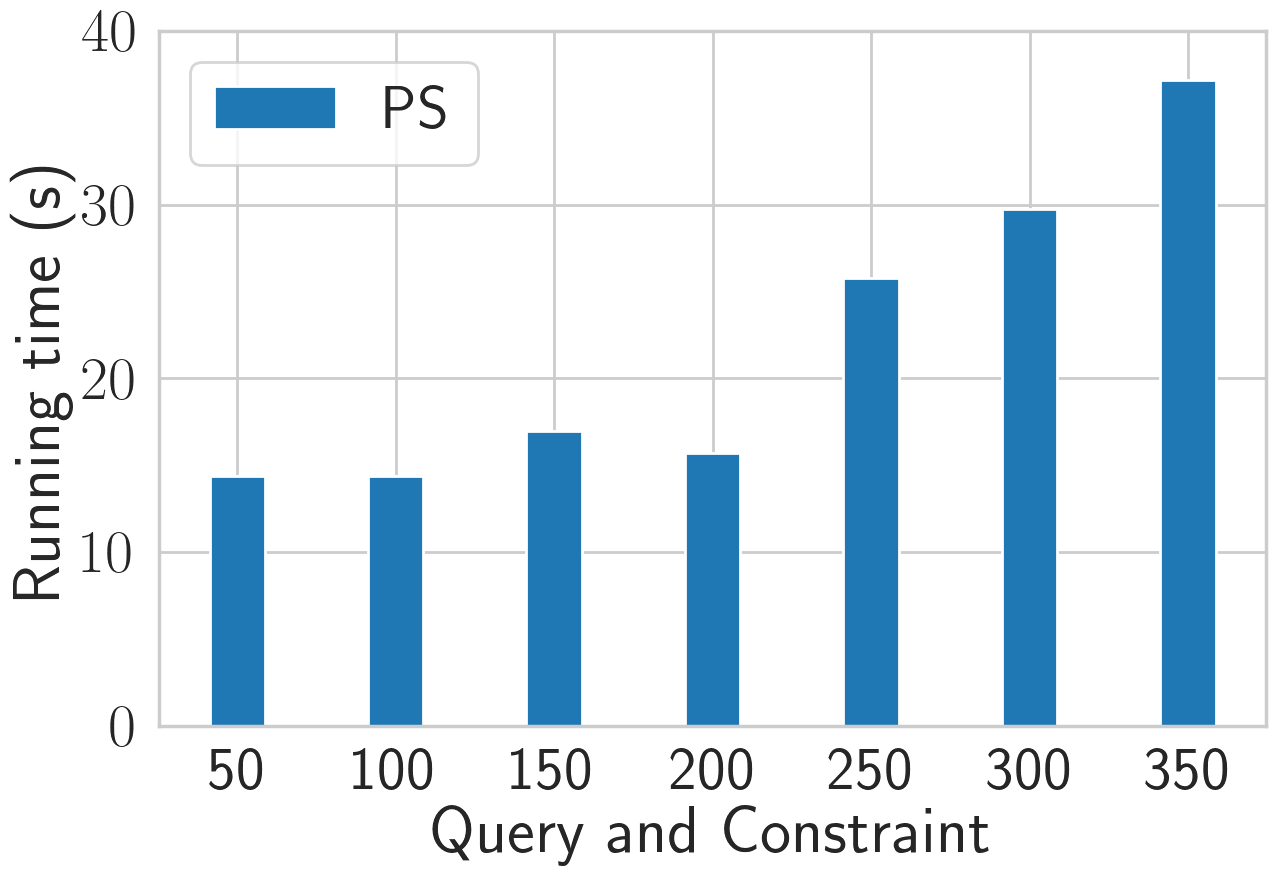
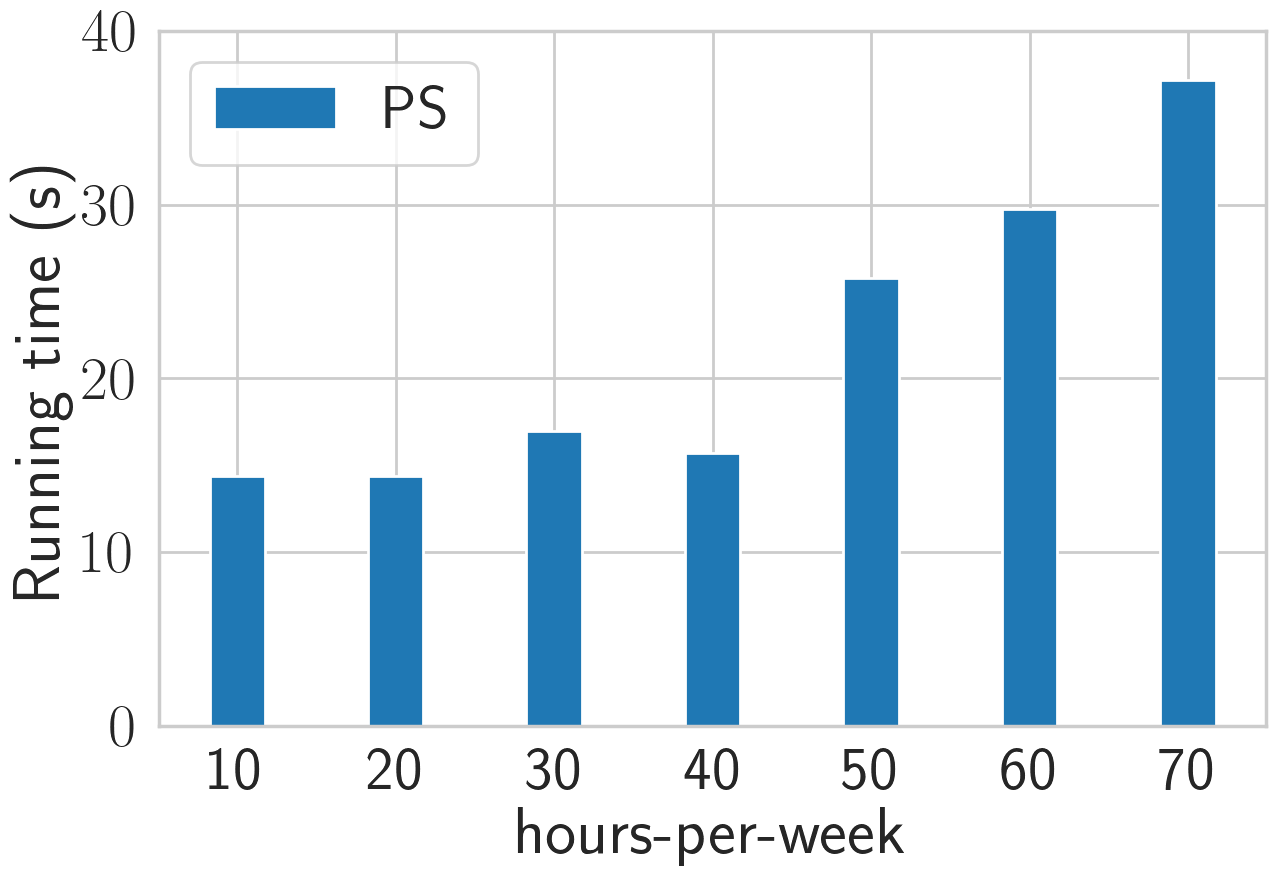
adult query change q1c1

diff --git a/Experiment/adult/query_change/Q1C1_2/query_change_q1c1.py b/Experiment/adult/query_change/Q1C1_2/query_change_q1c1.py
@@ -59,7 +59,7 @@ def run_constraint(c):
             print("running time = {}".format(running_time2))
         print(*minimal_refinements1, sep="\n")
         result_output.write("\n")
-        idx = i * 50
+        idx = i * 10
         time_output.write("{},{:0.2f},{:0.2f},{}\n".format(idx, running_time1, running_time2, assign_to_provenance_num))
         result_output.write("{}\n".format(idx))
         result_output.write(", ".join(str(item) for item in minimal_added_refinements1))

diff --git a/Experiment/adult/query_change/Q1C1_2/fig.py b/Experiment/adult/query_change/Q1C1_2/fig.py
@@ -58,7 +58,7 @@ plt.bar(index, execution_timeps, bar_width, color=color[0], label=label[0])
 # plt.xticks(index + bar_width, x_list)
 plt.xticks(index, x_list)
 
-plt.xlabel('Query and Constraint')
+plt.xlabel('hours-per-week')
 plt.ylabel('Running time (s)')
 # plt.yscale('log')
 plt.legend(loc='best')
